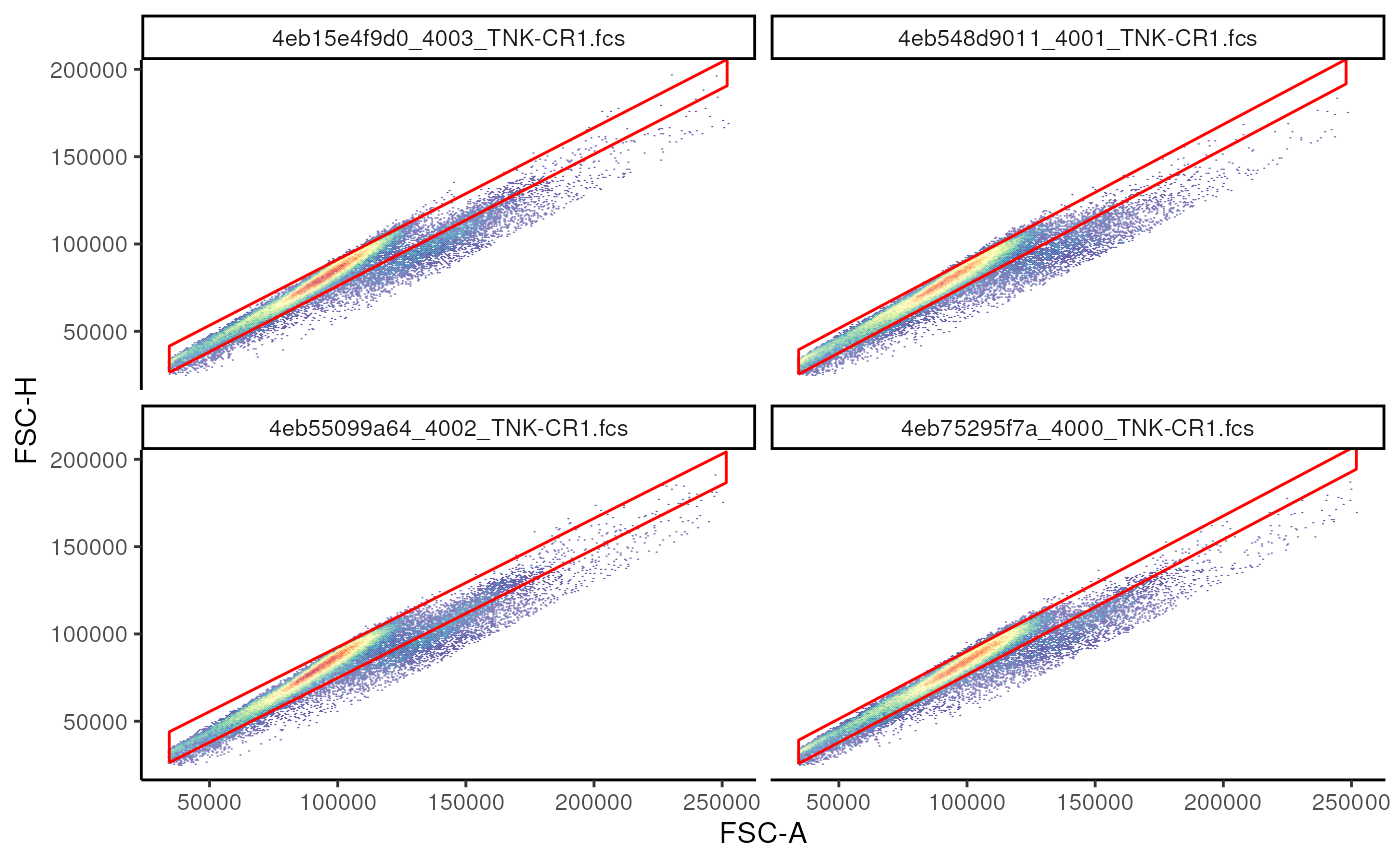
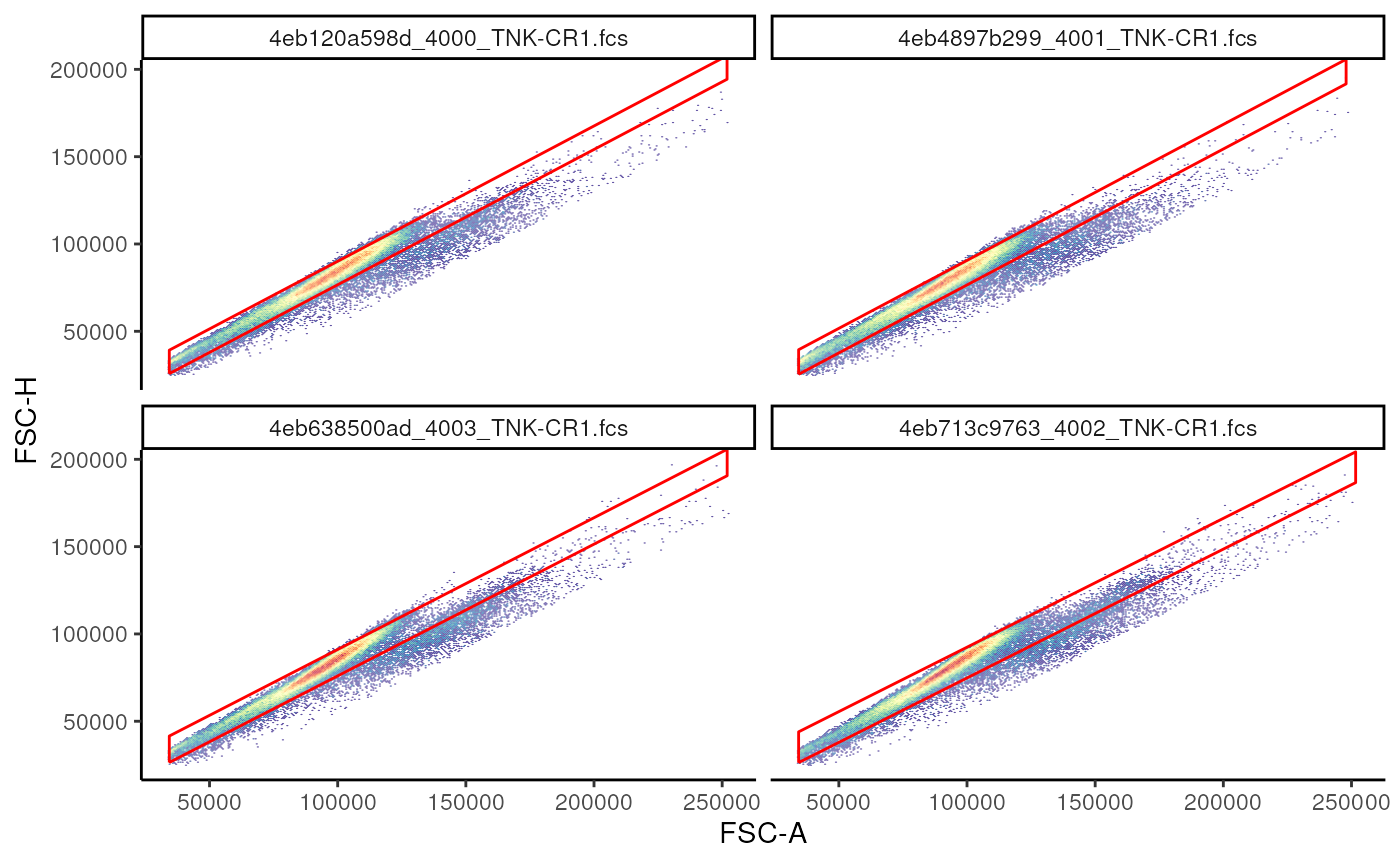
Deploying to gh-pages from @ OzetteTech/cytoverse-bioc-2023@5d4ecccd25340fd248d53106bc37449c50e893b5 🚀

diff --git a/articles/Import_fcs.html b/articles/Import_fcs.html
@@ -465,31 +465,31 @@ dataframe should match the <code>sampleNames</code> of the
 <span><span class="co"># prior to providing metadata</span></span>
 <span><span class="fu"><a href="https://rdrr.io/pkg/Biobase/man/phenoData.html" class="external-link">pData</a></span><span class="op">(</span><span class="va">fs</span><span class="op">)</span></span></code></pre></div>
 <pre><code><span><span class="co">##                                                      name</span></span>
-<span><span class="co">## 4eb153e67ba_4000_BDC-CR1.fcs 4eb153e67ba_4000_BDC-CR1.fcs</span></span>
-<span><span class="co">## 4eb75295f7a_4000_TNK-CR1.fcs 4eb75295f7a_4000_TNK-CR1.fcs</span></span>
-<span><span class="co">## 4eb236c4e9b_4001_BDC-CR1.fcs 4eb236c4e9b_4001_BDC-CR1.fcs</span></span>
-<span><span class="co">## 4eb548d9011_4001_TNK-CR1.fcs 4eb548d9011_4001_TNK-CR1.fcs</span></span>
-<span><span class="co">## 4eb55099a64_4002_TNK-CR1.fcs 4eb55099a64_4002_TNK-CR1.fcs</span></span>
-<span><span class="co">## 4eb15e4f9d0_4003_TNK-CR1.fcs 4eb15e4f9d0_4003_TNK-CR1.fcs</span></span></code></pre>
+<span><span class="co">## 4eb434e7f4a_4000_BDC-CR1.fcs 4eb434e7f4a_4000_BDC-CR1.fcs</span></span>
+<span><span class="co">## 4eb120a598d_4000_TNK-CR1.fcs 4eb120a598d_4000_TNK-CR1.fcs</span></span>
+<span><span class="co">## 4eb6423ad90_4001_BDC-CR1.fcs 4eb6423ad90_4001_BDC-CR1.fcs</span></span>
+<span><span class="co">## 4eb4897b299_4001_TNK-CR1.fcs 4eb4897b299_4001_TNK-CR1.fcs</span></span>
+<span><span class="co">## 4eb713c9763_4002_TNK-CR1.fcs 4eb713c9763_4002_TNK-CR1.fcs</span></span>
+<span><span class="co">## 4eb638500ad_4003_TNK-CR1.fcs 4eb638500ad_4003_TNK-CR1.fcs</span></span></code></pre>
 <div class="sourceCode" id="cb46"><pre class="downlit sourceCode r">
 <code class="sourceCode R"><span><span class="co"># add metadata </span></span>
 <span><span class="fu"><a href="https://rdrr.io/pkg/Biobase/man/phenoData.html" class="external-link">pData</a></span><span class="op">(</span><span class="va">fs</span><span class="op">)</span> <span class="op">&lt;-</span> <span class="va">metadata</span></span>
 <span></span>
 <span><span class="fu"><a href="https://rdrr.io/pkg/Biobase/man/phenoData.html" class="external-link">pData</a></span><span class="op">(</span><span class="va">fs</span><span class="op">)</span></span></code></pre></div>
 <pre><code><span><span class="co">##                              Treatment         panel</span></span>
-<span><span class="co">## 4eb153e67ba_4000_BDC-CR1.fcs   Treated Myeloid Panel</span></span>
-<span><span class="co">## 4eb75295f7a_4000_TNK-CR1.fcs Untreated  T Cell Panel</span></span>
-<span><span class="co">## 4eb236c4e9b_4001_BDC-CR1.fcs Untreated Myeloid Panel</span></span>
-<span><span class="co">## 4eb548d9011_4001_TNK-CR1.fcs Untreated  T Cell Panel</span></span>
-<span><span class="co">## 4eb55099a64_4002_TNK-CR1.fcs Untreated  T Cell Panel</span></span>
-<span><span class="co">## 4eb15e4f9d0_4003_TNK-CR1.fcs Untreated  T Cell Panel</span></span>
+<span><span class="co">## 4eb434e7f4a_4000_BDC-CR1.fcs Untreated Myeloid Panel</span></span>
+<span><span class="co">## 4eb120a598d_4000_TNK-CR1.fcs Untreated  T Cell Panel</span></span>
+<span><span class="co">## 4eb6423ad90_4001_BDC-CR1.fcs   Treated Myeloid Panel</span></span>
+<span><span class="co">## 4eb4897b299_4001_TNK-CR1.fcs Untreated  T Cell Panel</span></span>
+<span><span class="co">## 4eb713c9763_4002_TNK-CR1.fcs Untreated  T Cell Panel</span></span>
+<span><span class="co">## 4eb638500ad_4003_TNK-CR1.fcs Untreated  T Cell Panel</span></span>
 <span><span class="co">##                                                      name</span></span>
-<span><span class="co">## 4eb153e67ba_4000_BDC-CR1.fcs 4eb153e67ba_4000_BDC-CR1.fcs</span></span>
-<span><span class="co">## 4eb75295f7a_4000_TNK-CR1.fcs 4eb75295f7a_4000_TNK-CR1.fcs</span></span>
-<span><span class="co">## 4eb236c4e9b_4001_BDC-CR1.fcs 4eb236c4e9b_4001_BDC-CR1.fcs</span></span>
-<span><span class="co">## 4eb548d9011_4001_TNK-CR1.fcs 4eb548d9011_4001_TNK-CR1.fcs</span></span>
-<span><span class="co">## 4eb55099a64_4002_TNK-CR1.fcs 4eb55099a64_4002_TNK-CR1.fcs</span></span>
-<span><span class="co">## 4eb15e4f9d0_4003_TNK-CR1.fcs 4eb15e4f9d0_4003_TNK-CR1.fcs</span></span></code></pre>
+<span><span class="co">## 4eb434e7f4a_4000_BDC-CR1.fcs 4eb434e7f4a_4000_BDC-CR1.fcs</span></span>
+<span><span class="co">## 4eb120a598d_4000_TNK-CR1.fcs 4eb120a598d_4000_TNK-CR1.fcs</span></span>
+<span><span class="co">## 4eb6423ad90_4001_BDC-CR1.fcs 4eb6423ad90_4001_BDC-CR1.fcs</span></span>
+<span><span class="co">## 4eb4897b299_4001_TNK-CR1.fcs 4eb4897b299_4001_TNK-CR1.fcs</span></span>
+<span><span class="co">## 4eb713c9763_4002_TNK-CR1.fcs 4eb713c9763_4002_TNK-CR1.fcs</span></span>
+<span><span class="co">## 4eb638500ad_4003_TNK-CR1.fcs 4eb638500ad_4003_TNK-CR1.fcs</span></span></code></pre>
 <p>The benefit of having metadata is that we can use many of the
 sub-setting operations in a metadata specific manner.</p>
 <p><em>Note</em>: Many of the sub-setting operation for
@@ -511,11 +511,11 @@ full set of files.</p>
 <div class="sourceCode" id="cb50"><pre class="downlit sourceCode r">
 <code class="sourceCode R"><span><span class="fu"><a href="https://rdrr.io/pkg/Biobase/man/phenoData.html" class="external-link">pData</a></span><span class="op">(</span><span class="va">fs_myeloid</span><span class="op">)</span></span></code></pre></div>
 <pre><code><span><span class="co">##                              Treatment         panel</span></span>
-<span><span class="co">## 4eb153e67ba_4000_BDC-CR1.fcs   Treated Myeloid Panel</span></span>
-<span><span class="co">## 4eb236c4e9b_4001_BDC-CR1.fcs Untreated Myeloid Panel</span></span>
+<span><span class="co">## 4eb434e7f4a_4000_BDC-CR1.fcs Untreated Myeloid Panel</span></span>
+<span><span class="co">## 4eb6423ad90_4001_BDC-CR1.fcs   Treated Myeloid Panel</span></span>
 <span><span class="co">##                                                      name</span></span>
-<span><span class="co">## 4eb153e67ba_4000_BDC-CR1.fcs 4eb153e67ba_4000_BDC-CR1.fcs</span></span>
-<span><span class="co">## 4eb236c4e9b_4001_BDC-CR1.fcs 4eb236c4e9b_4001_BDC-CR1.fcs</span></span></code></pre>
+<span><span class="co">## 4eb434e7f4a_4000_BDC-CR1.fcs 4eb434e7f4a_4000_BDC-CR1.fcs</span></span>
+<span><span class="co">## 4eb6423ad90_4001_BDC-CR1.fcs 4eb6423ad90_4001_BDC-CR1.fcs</span></span></code></pre>
 <p>Below is an example of <code>cytoset</code> sub-setting which also
 highlights how the operations performed on <code>cytoset</code> affects
 the underlying data.</p>
